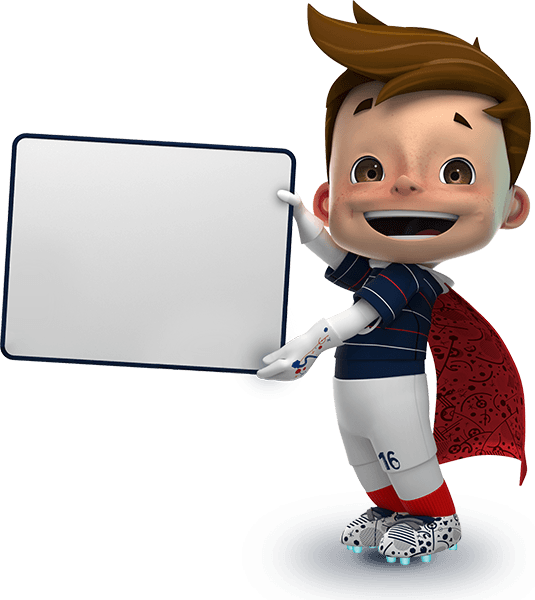
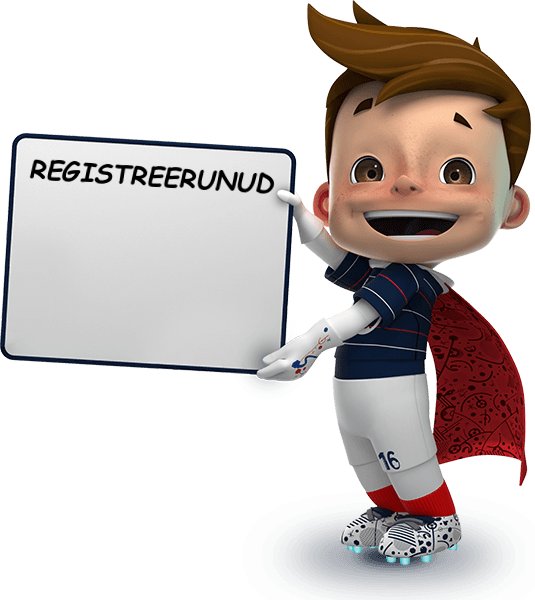
User count on top of the image

Changed region(s): [[0.0598, 0.24, 0.5084, 0.33]]

diff --git a/client/templates/landing.html b/client/templates/landing.html
@@ -43,26 +43,12 @@
                 <div class="row">
                     <div class="col-lg-12">
                         <div id="login" class="login">
-                            <span>User count: {{userCount}}</span>
-                            <h3>Logi sisse: </h3>
-                            <ul>
-                                <li class="fa-stack fa-lg">
-                                    <a href="/login-fb">
-                                        <i class="fa fa-facebook-square fa-stack-2x" ></i>
-                                    </a>    
-                                </li>					  
-                                <li class="fa-stack fa-lg">
-                                    <a href="/login-g+">
-                                        <i class="fa fa-google-plus-square fa-stack-2x"></i>
-                                    </a>
-                                </li>
-                                <li class="fa-stack fa-lg">
-                                    <a href="/login-tw">
-                                        <i class="fa fa-twitter-square fa-stack-2x"></i>
-                                    </a>
-                                </li>
-                            </ul>
+                            <a href="/dashboard" class="btn btn-lg btn-outline">
+                                SISENE ENNUSTUSLEHELE
+                                <i class="fa fa-sign-in" aria-hidden="true"></i>
+                            </a>
                         </div>
+                        <p id="user-count" class="user-count">{{userCount}}</p>
                         <img class="img-responsive" src="img/profile.png" alt="">
                     </div>
                 </div>
@@ -84,7 +70,7 @@
                         <img src="img/social.gif" width="180" alt="" >
                         <br>
                         <h4>1 - Logi sisse</h4>
-                        <p>Kasutada saad oma lemmikut sotsiaalmeedia kontot. Toetatud on <a href="/login-fb">Facebook</a>, <a href="/login-g+">Google+</a> ja <a href="/login-tw">Twitter</a>.</p>
+                        <p>Kasutada saad oma lemmikut sotsiaalmeedia kontot. Toetatud on <strong>Facebook</strong>, <strong>Google+</strong> ja <strong>Twitter</strong>.</p>
                     </div><!--/col-lg-4 -->
 
                     <div class="col-lg-4">
@@ -135,7 +121,7 @@
                     <br>
                     <div class="col-lg-8 col-lg-offset-2 text-center page-scroll">
                         <h3>Tekkis huvi?</h3>
-                        <a href="#page-top" class="btn btn-lg btn-outline">
+                        <a href="/dashboard" class="btn btn-lg btn-outline">
                             Logi sisse ja loe lähemalt
                         </a>
                     </div>

diff --git a/client/js/templates/landing.js b/client/js/templates/landing.js
@@ -1,4 +1,57 @@
+Template.landing.onCreated(function() {    
+    $(window).resize(function() {
+        setUserCount();
+    });
+});
+
+function setUserCount() {
+    var x = $(window).width();
+    switch (true) {
+        case (x <= 420):
+            resizeUserCount("214px","22px");
+            $('#login').css('padding-top',"0px");
+            break;
+        case (x <= 560):
+            console.log(x);
+            resizeUserCount("300px","66px");
+            $('#login').css('padding-top',"0px");
+            break;
+        case (x <= 640):
+            resizeUserCount("300px","156px");
+            $('#login').css('padding-top',"0px");
+            break;
+        case (x < 710):
+            resizeUserCount("300px","200px");
+            $('#login').css('padding-top',"0px");
+            break;
+        case (x < 751):
+            resizeUserCount("220px","240px");
+            $('#login').css('padding-top',"190px");
+            break;
+        case (x > 750 && x < 975):
+            resizeUserCount("220px","268px");
+            $('#login').css('padding-top',"190px");
+            break;
+        case (x > 974 && x < 1183):
+            resizeUserCount("220px","488px");
+            $('#login').css('padding-top',"190px");
+            break;
+        default:
+            resizeUserCount("220px","690px");
+            $('#login').css('padding-top',"190px");
+            break;
+    }
+}
+
+function resizeUserCount(heigth, width) {
+    $('#user-count').css('top',heigth);
+    $('#user-count').css('left',width);
+    $('#user-count').show();
+}
+
 Template.landing.onRendered(function() {
+    setUserCount();
+
     $('body').attr('id',"page-top");
     $('body').attr('class',"index");
     

diff --git a/client/stylesheets/freelancer.css b/client/stylesheets/freelancer.css
@@ -43,6 +43,31 @@ h6 {
     margin: 0 auto;
 }
 
+.user-count {
+    z-index: 100;
+    position: absolute;
+    color: #0c1c36;
+    font-family: "Comic Sans MS", "Comic Sans", cursive;
+    font-size: 40px;
+    font-weight: bold;
+    text-align: center;
+    left: 690px;
+    top: 220px;
+    width: 170px;
+    /* Safari */
+    -webkit-transform: rotate(3.5deg);
+
+    /* Firefox */
+    -moz-transform: rotate(3.5deg);
+
+    /* IE */
+    -ms-transform: rotate(3.5deg);
+
+    /* Opera */
+    -o-transform: rotate(3.5deg);
+
+}
+
 header {
     text-align: left;
     color: #fff;
@@ -83,7 +108,7 @@ header a:focus,
 header a:active,
 header a.active {
     color: #fff;
-    font-size: 40px;
+    
 }
 
 @media(min-width:768px) {
